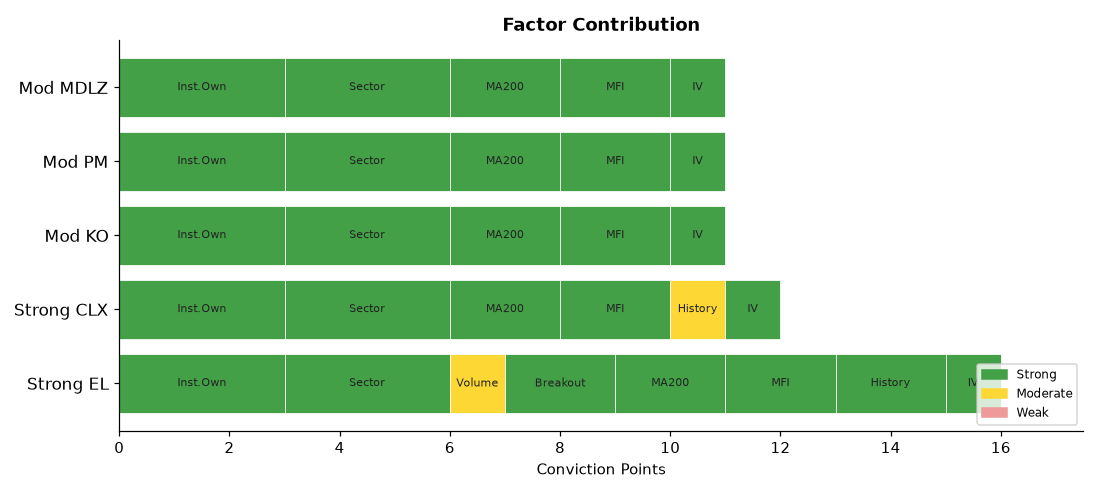
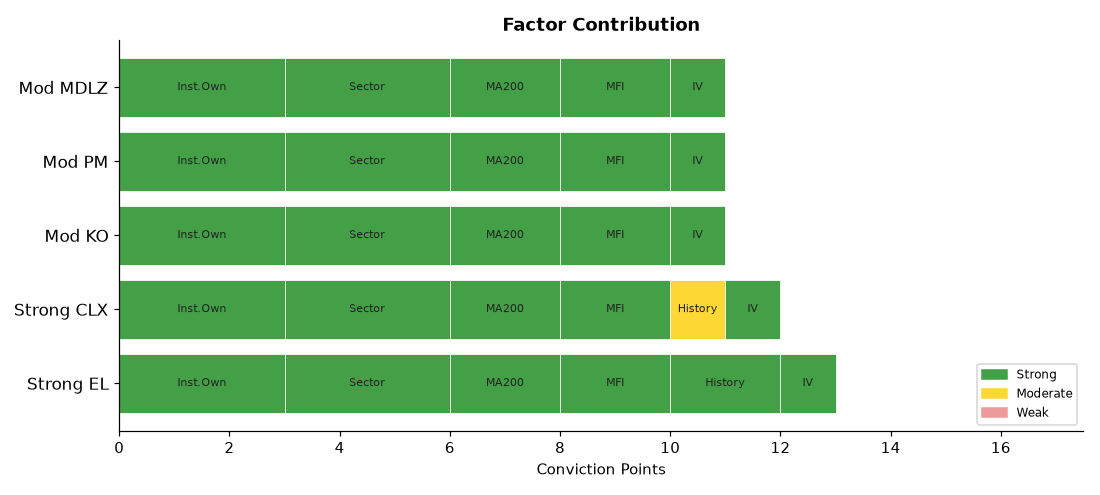
deploy: b7fadf5b06deb90e7ebb92f278722414bdd9750d

Changed region(s): [[0.4018, 0.697, 0.9273, 0.8485]]

diff --git a/index.html b/index.html
@@ -4,7 +4,7 @@
   <meta charset="UTF-8">
   <meta name="viewport" content="width=device-width,initial-scale=1">
   <meta http-equiv="Cache-Control" content="no-cache,no-store,must-revalidate">
-  <title>Stock Breakout Screener — 2026-08-24 14:08</title>
+  <title>Stock Breakout Screener — 2026-08-24 15:10</title>
   <style>
     *{box-sizing:border-box;margin:0;padding:0}
     body{font-family:'Segoe UI',Arial,sans-serif;background:#f0f2f5;
@@ -34,7 +34,7 @@
 
 <div class="hdr">
   <h1>📈 Stock Breakout Screener</h1>
-  <p>Updated: 2026-08-24 14:08 UTC &nbsp;·&nbsp; Phase: Regular Market Hours &nbsp;·&nbsp;
+  <p>Updated: 2026-08-24 15:10 UTC &nbsp;·&nbsp; Phase: Regular Market Hours &nbsp;·&nbsp;
      129 stocks screened &nbsp;·&nbsp; Top 5 by conviction score</p>
 </div>
 
@@ -65,11 +65,11 @@
             <span style="margin-left:auto;background:#1a237e;color:#fff;
                          padding:3px 12px;border-radius:12px;
                          font-size:13px;font-weight:600">
-              16/17
+              13/17
             </span>
           </div>
           <ul style="margin:0;padding-left:18px;font-size:13px;
-                     color:#333;line-height:1.8"><li style="margin:5px 0"><span style="background:#fffde7;color:#f57f17;padding:2px 7px;border-radius:4px;font-size:11px;">⚠</span> Volume: <b>1.6× average</b> — Above-average activity</li><li style="margin:5px 0"><span style="background:#e8f5e9;color:#2e7d32;padding:2px 7px;border-radius:4px;font-size:11px;">✅</span> Candle: close <b>$101.94</b> vs open <b>$96.75</b> (+5.4%) — regular market close</li><li style="margin:5px 0"><span style="background:#e8f5e9;color:#2e7d32;padding:2px 7px;border-radius:4px;font-size:11px;">✅</span> 200-Day MA: price <b>$101.94</b> vs MA <b>$83.86</b> — <b>✅ Above</b> long-term trend</li><li style="margin:5px 0"><span style="background:#e8f5e9;color:#2e7d32;padding:2px 7px;border-radius:4px;font-size:11px;">✅</span> Inst. ownership: <b>96.3%</b> · MFI: <b>63.5</b> · Market cap: <b>N/A</b></li><li style="margin:5px 0"><span style="background:#e8f5e9;color:#2e7d32;padding:2px 7px;border-radius:4px;font-size:11px;">✅</span> Last similar breakout: <b>Aug 19, 2026</b> → <b>+5.3%</b> over 10 trading days</li></ul>
+                     color:#333;line-height:1.8"><li style="margin:5px 0"><span style="background:#ffebee;color:#b71c1c;padding:2px 7px;border-radius:4px;font-size:11px;">❌</span> Volume: <b>0.2× average</b> — Above-average activity</li><li style="margin:5px 0"><span style="background:#ffebee;color:#b71c1c;padding:2px 7px;border-radius:4px;font-size:11px;">❌</span> Candle: close <b>$103.16</b> vs open <b>$101.92</b> (+1.2%) — regular market close</li><li style="margin:5px 0"><span style="background:#e8f5e9;color:#2e7d32;padding:2px 7px;border-radius:4px;font-size:11px;">✅</span> 200-Day MA: price <b>$103.16</b> vs MA <b>$83.86</b> — <b>✅ Above</b> long-term trend</li><li style="margin:5px 0"><span style="background:#e8f5e9;color:#2e7d32;padding:2px 7px;border-radius:4px;font-size:11px;">✅</span> Inst. ownership: <b>96.3%</b> · MFI: <b>63.9</b> · Market cap: <b>N/A</b></li><li style="margin:5px 0"><span style="background:#e8f5e9;color:#2e7d32;padding:2px 7px;border-radius:4px;font-size:11px;">✅</span> Last similar breakout: <b>Aug 19, 2026</b> → <b>+5.3%</b> over 10 trading days</li></ul>
         </div>
         <div style="background:#fff;border:1px solid #ddd;border-radius:10px;
                     padding:16px 20px;margin-bottom:12px;
@@ -86,7 +86,7 @@
             </span>
           </div>
           <ul style="margin:0;padding-left:18px;font-size:13px;
-                     color:#333;line-height:1.8"><li style="margin:5px 0"><span style="background:#ffebee;color:#b71c1c;padding:2px 7px;border-radius:4px;font-size:11px;">❌</span> Volume: <b>0.8× average</b> — Above-average activity</li><li style="margin:5px 0"><span style="background:#ffebee;color:#b71c1c;padding:2px 7px;border-radius:4px;font-size:11px;">❌</span> Candle: close <b>$106.69</b> vs open <b>$106.11</b> (+0.5%) — regular market close</li><li style="margin:5px 0"><span style="background:#e8f5e9;color:#2e7d32;padding:2px 7px;border-radius:4px;font-size:11px;">✅</span> 200-Day MA: price <b>$106.69</b> vs MA <b>$99.26</b> — <b>✅ Above</b> long-term trend</li><li style="margin:5px 0"><span style="background:#e8f5e9;color:#2e7d32;padding:2px 7px;border-radius:4px;font-size:11px;">✅</span> Inst. ownership: <b>88.5%</b> · MFI: <b>69.0</b> · Market cap: <b>$13.2B</b></li><li style="margin:5px 0"><span style="background:#fffde7;color:#f57f17;padding:2px 7px;border-radius:4px;font-size:11px;">⚠</span> Last similar breakout: <b>Aug 04, 2026</b> → <b>+2.0%</b> over 10 trading days</li></ul>
+                     color:#333;line-height:1.8"><li style="margin:5px 0"><span style="background:#ffebee;color:#b71c1c;padding:2px 7px;border-radius:4px;font-size:11px;">❌</span> Volume: <b>0.8× average</b> — Above-average activity</li><li style="margin:5px 0"><span style="background:#ffebee;color:#b71c1c;padding:2px 7px;border-radius:4px;font-size:11px;">❌</span> Candle: close <b>$106.69</b> vs open <b>$106.11</b> (+0.5%) — regular market close</li><li style="margin:5px 0"><span style="background:#e8f5e9;color:#2e7d32;padding:2px 7px;border-radius:4px;font-size:11px;">✅</span> 200-Day MA: price <b>$106.69</b> vs MA <b>$99.26</b> — <b>✅ Above</b> long-term trend</li><li style="margin:5px 0"><span style="background:#e8f5e9;color:#2e7d32;padding:2px 7px;border-radius:4px;font-size:11px;">✅</span> Inst. ownership: <b>88.5%</b> · MFI: <b>69.2</b> · Market cap: <b>$13.2B</b></li><li style="margin:5px 0"><span style="background:#fffde7;color:#f57f17;padding:2px 7px;border-radius:4px;font-size:11px;">⚠</span> Last similar breakout: <b>Aug 04, 2026</b> → <b>+2.0%</b> over 10 trading days</li></ul>
         </div>
         <div style="background:#fff;border:1px solid #ddd;border-radius:10px;
                     padding:16px 20px;margin-bottom:12px;
@@ -103,7 +103,7 @@
             </span>
           </div>
           <ul style="margin:0;padding-left:18px;font-size:13px;
-                     color:#333;line-height:1.8"><li style="margin:5px 0"><span style="background:#ffebee;color:#b71c1c;padding:2px 7px;border-radius:4px;font-size:11px;">❌</span> Volume: <b>0.9× average</b> — Above-average activity</li><li style="margin:5px 0"><span style="background:#ffebee;color:#b71c1c;padding:2px 7px;border-radius:4px;font-size:11px;">❌</span> Candle: close <b>$91.10</b> vs open <b>$90.85</b> (+0.3%) — regular market close</li><li style="margin:5px 0"><span style="background:#e8f5e9;color:#2e7d32;padding:2px 7px;border-radius:4px;font-size:11px;">✅</span> 200-Day MA: price <b>$91.10</b> vs MA <b>$80.31</b> — <b>✅ Above</b> long-term trend</li><li style="margin:5px 0"><span style="background:#e8f5e9;color:#2e7d32;padding:2px 7px;border-radius:4px;font-size:11px;">✅</span> Inst. ownership: <b>68.4%</b> · MFI: <b>77.9</b> · Market cap: <b>$397.4B</b></li></ul>
+                     color:#333;line-height:1.8"><li style="margin:5px 0"><span style="background:#ffebee;color:#b71c1c;padding:2px 7px;border-radius:4px;font-size:11px;">❌</span> Volume: <b>0.2× average</b> — Above-average activity</li><li style="margin:5px 0"><span style="background:#ffebee;color:#b71c1c;padding:2px 7px;border-radius:4px;font-size:11px;">❌</span> Candle: close <b>$91.97</b> vs open <b>$92.12</b> (-0.2%) — regular market close</li><li style="margin:5px 0"><span style="background:#e8f5e9;color:#2e7d32;padding:2px 7px;border-radius:4px;font-size:11px;">✅</span> 200-Day MA: price <b>$91.97</b> vs MA <b>$80.30</b> — <b>✅ Above</b> long-term trend</li><li style="margin:5px 0"><span style="background:#e8f5e9;color:#2e7d32;padding:2px 7px;border-radius:4px;font-size:11px;">✅</span> Inst. ownership: <b>68.4%</b> · MFI: <b>78.1</b> · Market cap: <b>$395.6B</b></li></ul>
         </div>
         <div style="background:#fff;border:1px solid #ddd;border-radius:10px;
                     padding:16px 20px;margin-bottom:12px;
@@ -120,7 +120,7 @@
             </span>
           </div>
           <ul style="margin:0;padding-left:18px;font-size:13px;
-                     color:#333;line-height:1.8"><li style="margin:5px 0"><span style="background:#ffebee;color:#b71c1c;padding:2px 7px;border-radius:4px;font-size:11px;">❌</span> Volume: <b>0.8× average</b> — Above-average activity</li><li style="margin:5px 0"><span style="background:#ffebee;color:#b71c1c;padding:2px 7px;border-radius:4px;font-size:11px;">❌</span> Candle: close <b>$188.23</b> vs open <b>$190.97</b> (-1.4%) — regular market close</li><li style="margin:5px 0"><span style="background:#e8f5e9;color:#2e7d32;padding:2px 7px;border-radius:4px;font-size:11px;">✅</span> 200-Day MA: price <b>$188.23</b> vs MA <b>$176.49</b> — <b>✅ Above</b> long-term trend</li><li style="margin:5px 0"><span style="background:#e8f5e9;color:#2e7d32;padding:2px 7px;border-radius:4px;font-size:11px;">✅</span> Inst. ownership: <b>84.5%</b> · MFI: <b>65.0</b> · Market cap: <b>$298.4B</b></li></ul>
+                     color:#333;line-height:1.8"><li style="margin:5px 0"><span style="background:#ffebee;color:#b71c1c;padding:2px 7px;border-radius:4px;font-size:11px;">❌</span> Volume: <b>0.8× average</b> — Above-average activity</li><li style="margin:5px 0"><span style="background:#ffebee;color:#b71c1c;padding:2px 7px;border-radius:4px;font-size:11px;">❌</span> Candle: close <b>$188.23</b> vs open <b>$190.97</b> (-1.4%) — regular market close</li><li style="margin:5px 0"><span style="background:#e8f5e9;color:#2e7d32;padding:2px 7px;border-radius:4px;font-size:11px;">✅</span> 200-Day MA: price <b>$188.23</b> vs MA <b>$176.50</b> — <b>✅ Above</b> long-term trend</li><li style="margin:5px 0"><span style="background:#e8f5e9;color:#2e7d32;padding:2px 7px;border-radius:4px;font-size:11px;">✅</span> Inst. ownership: <b>84.5%</b> · MFI: <b>65.2</b> · Market cap: <b>$300.1B</b></li></ul>
         </div>
         <div style="background:#fff;border:1px solid #ddd;border-radius:10px;
                     padding:16px 20px;margin-bottom:12px;
@@ -137,7 +137,7 @@
             </span>
           </div>
           <ul style="margin:0;padding-left:18px;font-size:13px;
-                     color:#333;line-height:1.8"><li style="margin:5px 0"><span style="background:#ffebee;color:#b71c1c;padding:2px 7px;border-radius:4px;font-size:11px;">❌</span> Volume: <b>0.7× average</b> — Above-average activity</li><li style="margin:5px 0"><span style="background:#ffebee;color:#b71c1c;padding:2px 7px;border-radius:4px;font-size:11px;">❌</span> Candle: close <b>$64.45</b> vs open <b>$64.24</b> (+0.3%) — regular market close</li><li style="margin:5px 0"><span style="background:#e8f5e9;color:#2e7d32;padding:2px 7px;border-radius:4px;font-size:11px;">✅</span> 200-Day MA: price <b>$64.45</b> vs MA <b>$59.70</b> — <b>✅ Above</b> long-term trend</li><li style="margin:5px 0"><span style="background:#e8f5e9;color:#2e7d32;padding:2px 7px;border-radius:4px;font-size:11px;">✅</span> Inst. ownership: <b>89.6%</b> · MFI: <b>69.2</b> · Market cap: <b>$83.3B</b></li></ul>
+                     color:#333;line-height:1.8"><li style="margin:5px 0"><span style="background:#ffebee;color:#b71c1c;padding:2px 7px;border-radius:4px;font-size:11px;">❌</span> Volume: <b>0.7× average</b> — Above-average activity</li><li style="margin:5px 0"><span style="background:#ffebee;color:#b71c1c;padding:2px 7px;border-radius:4px;font-size:11px;">❌</span> Candle: close <b>$64.45</b> vs open <b>$64.24</b> (+0.3%) — regular market close</li><li style="margin:5px 0"><span style="background:#e8f5e9;color:#2e7d32;padding:2px 7px;border-radius:4px;font-size:11px;">✅</span> 200-Day MA: price <b>$64.45</b> vs MA <b>$59.70</b> — <b>✅ Above</b> long-term trend</li><li style="margin:5px 0"><span style="background:#e8f5e9;color:#2e7d32;padding:2px 7px;border-radius:4px;font-size:11px;">✅</span> Inst. ownership: <b>89.6%</b> · MFI: <b>69.4</b> · Market cap: <b>$83.3B</b></li></ul>
         </div>
 
 
@@ -169,20 +169,20 @@
         <tr>
           <td style="font-weight:700;text-align:left;padding-left:10px">
             🟢 EL</td>
-          <td style="background:#fff9c4">1.6×</td>
-          <td style="background:#c8e6c9">+5.4%</td>
+          <td style="background:#ffcdd2">0.2×</td>
+          <td style="background:#ffcdd2">+1.2%</td>
           <td style="background:#c8e6c9">
             ▲ Above</td>
           <td style="background:#c8e6c9">
             96.3%</td>
           <td style="background:#c8e6c9">
-            63.5</td>
+            63.9</td>
           <td style="background:#c8e6c9">Consumer Stpl</td>
           <td style="background:#c8e6c9">
-            114.2%</td>
+            129.2%</td>
           <td style="background:#c8e6c9">
             +5.3%</td>
-          <td style="font-weight:800;font-size:15px">16/17</td>
+          <td style="font-weight:800;font-size:15px">13/17</td>
         </tr>
         <tr>
           <td style="font-weight:700;text-align:left;padding-left:10px">
@@ -194,10 +194,10 @@
           <td style="background:#c8e6c9">
             88.5%</td>
           <td style="background:#c8e6c9">
-            69.0</td>
+            69.2</td>
           <td style="background:#c8e6c9">Consumer Stpl</td>
           <td style="background:#c8e6c9">
-            83.0%</td>
+            69.3%</td>
           <td style="background:#fff9c4">
             +2.0%</td>
           <td style="font-weight:800;font-size:15px">12/17</td>
@@ -205,17 +205,17 @@
         <tr>
           <td style="font-weight:700;text-align:left;padding-left:10px">
             🟡 KO</td>
-          <td style="background:#ffcdd2">0.9×</td>
-          <td style="background:#ffcdd2">+0.3%</td>
+          <td style="background:#ffcdd2">0.2×</td>
+          <td style="background:#ffcdd2">-0.2%</td>
           <td style="background:#c8e6c9">
             ▲ Above</td>
           <td style="background:#c8e6c9">
             68.4%</td>
           <td style="background:#c8e6c9">
-            77.9</td>
+            78.1</td>
           <td style="background:#c8e6c9">Consumer Stpl</td>
           <td style="background:#c8e6c9">
-            83.9%</td>
+            94.0%</td>
           <td style="background:#ffcdd2">
             N/A</td>
           <td style="font-weight:800;font-size:15px">11/17</td>
@@ -230,10 +230,10 @@
           <td style="background:#c8e6c9">
             84.5%</td>
           <td style="background:#c8e6c9">
-            65.0</td>
+            65.2</td>
           <td style="background:#c8e6c9">Consumer Stpl</td>
           <td style="background:#c8e6c9">
-            73.3%</td>
+            64.0%</td>
           <td style="background:#ffcdd2">
             N/A</td>
           <td style="font-weight:800;font-size:15px">11/17</td>
@@ -248,10 +248,10 @@
           <td style="background:#c8e6c9">
             89.6%</td>
           <td style="background:#c8e6c9">
-            69.2</td>
+            69.4</td>
           <td style="background:#c8e6c9">Consumer Stpl</td>
           <td style="background:#c8e6c9">
-            121.5%</td>
+            111.3%</td>
           <td style="background:#ffcdd2">
             N/A</td>
           <td style="font-weight:800;font-size:15px">11/17</td>
@@ -278,57 +278,57 @@
         <tr>
           <td style="text-align:left;padding-left:10px;font-weight:600">
             #1 Consumer Stpl</td>
-          <td style="background:#e8f5e9;color:#2e7d32;font-weight:700">+1.42%</td>
+          <td style="background:#e8f5e9;color:#2e7d32;font-weight:700">+1.52%</td>
         </tr>
         <tr>
           <td style="text-align:left;padding-left:10px;font-weight:600">
             #2 Financials</td>
-          <td style="background:#e8f5e9;color:#2e7d32;font-weight:700">+1.37%</td>
+          <td style="background:#e8f5e9;color:#2e7d32;font-weight:700">+1.40%</td>
         </tr>
         <tr>
           <td style="text-align:left;padding-left:10px;font-weight:600">
-            #3 Materials</td>
-          <td style="background:#e8f5e9;color:#2e7d32;font-weight:700">+0.84%</td>
+            #3 Comm. Services</td>
+          <td style="background:#e8f5e9;color:#2e7d32;font-weight:700">+0.95%</td>
         </tr>
         <tr>
           <td style="text-align:left;padding-left:10px;font-weight:600">
-            #4 Comm. Services</td>
-          <td style="background:#e8f5e9;color:#2e7d32;font-weight:700">+0.79%</td>
+            #4 Consumer Disc</td>
+          <td style="background:#e8f5e9;color:#2e7d32;font-weight:700">+0.44%</td>
         </tr>
         <tr>
           <td style="text-align:left;padding-left:10px;font-weight:600">
-            #5 Real Estate</td>
-          <td style="background:#e8f5e9;color:#2e7d32;font-weight:700">+0.69%</td>
+            #5 Materials</td>
+          <td style="background:#e8f5e9;color:#2e7d32;font-weight:700">+0.24%</td>
         </tr>
         <tr>
           <td style="text-align:left;padding-left:10px;font-weight:600">
             #6 Utilities</td>
-          <td style="background:#e8f5e9;color:#2e7d32;font-weight:700">+0.40%</td>
+          <td style="background:#e8f5e9;color:#2e7d32;font-weight:700">+0.22%</td>
         </tr>
         <tr>
           <td style="text-align:left;padding-left:10px;font-weight:600">
-            #7 Consumer Disc</td>
-          <td style="background:#e8f5e9;color:#2e7d32;font-weight:700">+0.32%</td>
+            #7 Real Estate</td>
+          <td style="background:#ffebee;color:#c62828;font-weight:700">-0.17%</td>
         </tr>
         <tr>
           <td style="text-align:left;padding-left:10px;font-weight:600">
             #8 Healthcare</td>
-          <td style="background:#ffebee;color:#c62828;font-weight:700">-0.10%</td>
+          <td style="background:#ffebee;color:#c62828;font-weight:700">-0.42%</td>
         </tr>
         <tr>
           <td style="text-align:left;padding-left:10px;font-weight:600">
-            #9 Energy</td>
-          <td style="background:#ffebee;color:#c62828;font-weight:700">-0.55%</td>
+            #9 Industrials</td>
+          <td style="background:#ffebee;color:#c62828;font-weight:700">-0.90%</td>
         </tr>
         <tr>
           <td style="text-align:left;padding-left:10px;font-weight:600">
-            #10 Industrials</td>
-          <td style="background:#ffebee;color:#c62828;font-weight:700">-0.57%</td>
+            #10 Energy</td>
+          <td style="background:#ffebee;color:#c62828;font-weight:700">-1.37%</td>
         </tr>
         <tr>
           <td style="text-align:left;padding-left:10px;font-weight:600">
             #11 Technology</td>
-          <td style="background:#ffebee;color:#c62828;font-weight:700">-2.28%</td>
+          <td style="background:#ffebee;color:#c62828;font-weight:700">-2.02%</td>
         </tr>
     </table>
   </div>
@@ -367,7 +367,7 @@
         <li><b>Scoring weights:</b>
             Inst.Own(3) · Sector(3) · Volume(2) · Breakout(2) ·
             MA200(2) · MFI(2) · History(2) · IV(1) = 17pts max</li>
-        <li><b>Run time:</b> 2026-08-24 14:08 UTC — Market phase: Regular Market Hours</li>
+        <li><b>Run time:</b> 2026-08-24 15:10 UTC — Market phase: Regular Market Hours</li>
       </ul>
     </div>
 
